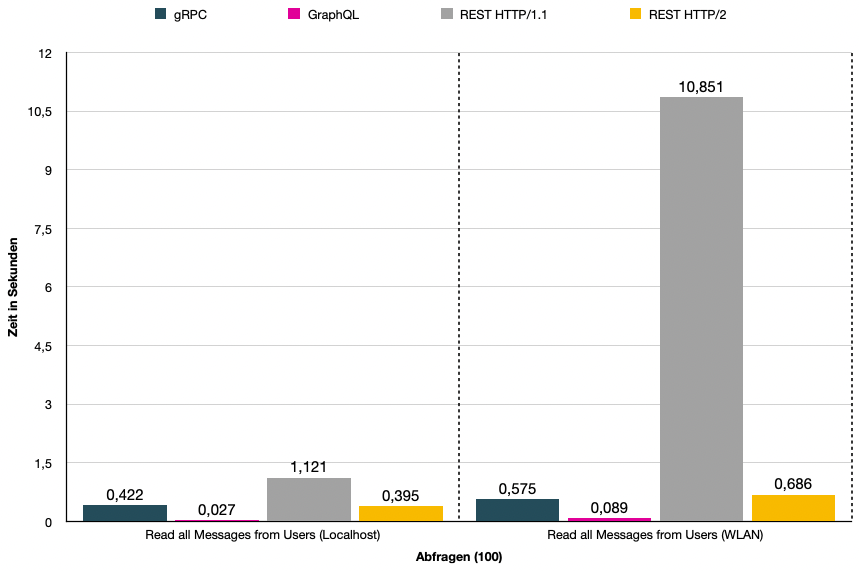
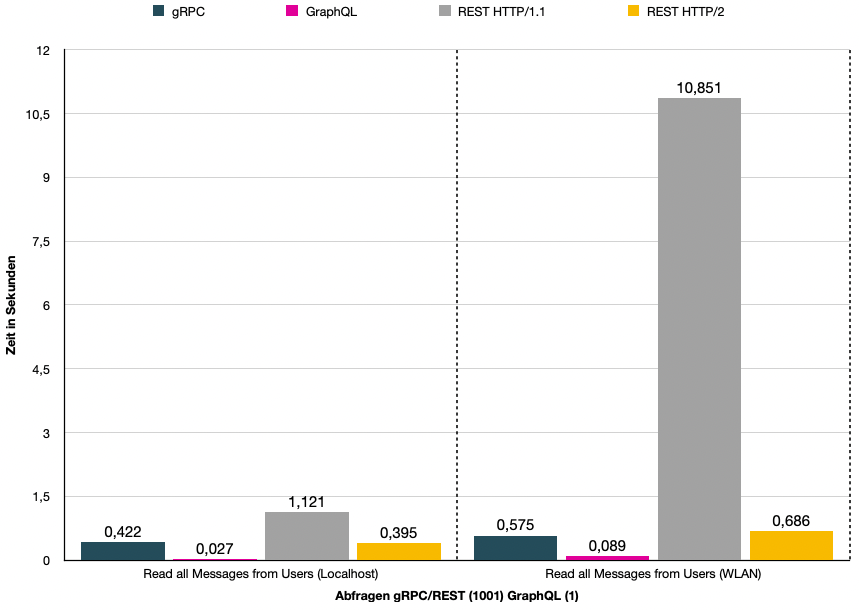
update index.md and change n1 result image

diff --git a/praktikum/ratschinski/index.md b/praktikum/ratschinski/index.md
@@ -462,6 +462,98 @@ Mit dem OpenAPI-Generator <a href="#/praktikum/ratschinski/index?id=ref_14">(Ope
 | **Min., Max., Regex.**                          |             ❌             | ❌ <br> Über Custom Types  |               ✅               |
 | **Codegenerierung**                             |             ✅             |             ✅             |               ✅               |
 
+# Versionierbarkeit
+
+Durch die unterschiedlichen Konzepte der Schnittstellenbeschreibungen bieten auch alle Technologien verschiedene Konzepte der Versionierung der Schnittstelle.
+
+## gRPC
+
+Die Versionierung in gRPC erfolgt über Änderungen in der Schnittstellenbeschreibung.
+
+```protobuf
+Version 1
+
+message User {
+int64 id = 1;
+string first_name = 2;
+string last_name = 3;
+string email = 4;
+}
+```
+
+```protobuf
+Version 2
+
+message User {
+  int64 id = 1;
+  string first_name = 2;
+  string last_name = 3;
+  string password = 5;
+}
+```
+
+Es lassen sich einfach neue Felder hinzufügen. In dem oben gezeigten Beispiel wird das Feld "email" entfernt und das Feld "password" hinzugefügt. Solange folgende Regeln eingehalten werden, bleiben die Versionen untereinander kompatibel:
+
+- Die Feldnummern dürfen niemals geändert werden.
+  - Im Beispiel muss das Feld "id" immer die Feldnummer 1 behalten.
+- Feldnummern dürfen gelöscht, aber später nicht wieder verwendet werden.
+  - Im Beispiel wird das Feld "email" gelöscht, d. h. die Feldnummer 4 darf später nicht wieder verwendet werden.
+- Namen dürfen geändert werden, da intern nur die Feldnummern verwendet werden.
+- Die Typen dürfen vertauscht werden, so lange kein **Overflow** entsteht.
+
+Werden diese Regeln befolgt, entsteht eine gute Kompatibilität zwischen den verschiedenen Schnittstellenversionen. Nachrichten lassen sich so sehr einfach von Version 1 auf Version 2 mappen. Dies wird vom protobuf Framework automatisch gemacht.
+
+## GraphQL
+
+Eine Versionierung in GraphQL ist nicht vorgesehen. Man könnte zwar den kompletten Endpunkt mit einer Versionsnummer versehen und so unterschiedliche Versionen der API unterstützen. Doch GraphQL empfiehlt durch die Möglichkeit zur effektiven API-Weiterentwicklung einen Versionslosen Ansatz <a href="#/praktikum/ratschinski/index?id=ref_16">(GraphQL Versioning, 2022)</a>.  
+In GraphQL lassen sich einfach neue Felder hinzufügen, ohne dass das zu einem Bruch der API führt. Ein Client wird so niemals ein neues Feld sehen, wenn er nicht explizit seine Query angepasst hat. Das Hinzufügen neuer Felder wird also bei GraphQL in keinem Fall die Funktionalität eines Clients beeinflussen.
+
+Felder sollten, bevor sie gelöscht werden, zuerst als _deprecated_ gekennzeichnet werden. Anschließend kann die Benutzung dieser Felder überwacht werden und erst wenn kein Client diese Felder mehr benutzt, können diese sicher entfernt werden. _Deprecated_-Felder werden in der Dokumentation von GraphQL nicht mehr angezeigt und stehen damit neuen Clients nicht mehr zur Verfügung.
+
+Die erste Version der GraphQL-API sollte dementsprechend nur die Felder zur Verfügung stellen, die von den Clients auch wirklich benötigt werden und sich anschließend Schritt für Schritt mit den neuen Anforderungen weiterentwickeln.
+
+## REST
+
+Bei REST kann die Versionierung mit unterschiedlichen Methoden gelöst werden. Die verschiedenen Methoden können einzeln angewandt werden oder sich dabei ergänzen <a href="#/praktikum/ratschinski/index?id=ref_4">(Tilkov et al., 2015, S. 187 - 189)</a>.
+
+#### Zusätzliche Ressourcen
+
+Bei neuen Anforderungen können zusätzliche Ressourcen angelegt werden, welche danach vom Client angesprochen werden können. Dies entspricht dem GraphQL-Ansatz, dass die API nicht versioniert wird und bei neuen Anforderungen immer neue Ressourcen zur Verfügung gestellt werden. Der Ansatz klingt trivial, bietet aber in sehr vielen Fällen eine einfache und sehr gut funktionierende Lösung.
+
+#### Erweiterbare Datenformate
+
+Viele Datenformate, wie XML oder JSON, lassen sich einfach erweitern. Durch die Erweiterung können leicht neue Informationen zum Client geliefert werden. Der Nachteil an der Methode ist, dass das Datenformat im Vorfeld festgelegt werden muss und bei manchen Clients ein Over-fetching entsteht, dadurch dass nicht alle angeforderten Daten benötigt werden.
+
+#### Versionsabhängige Repräsentation
+
+Die nächste Methode basiert auf einem HTTP-spezifischen Ansatz. Durch die Möglichkeit, sowohl im Request- als auch bei Response-Nachrichten im Content-Type-Header einen Medientyp zu deklarieren, kann ein und dieselbe Ressource mehr als eine Version eines Formats unterstützen.
+
+```
+Version 1:
+Accept: application/vnd.example.v1+json
+
+Version 2:
+Accept: application/vnd.example.v2+json
+```
+
+#### URI Versionierung
+
+Die URI Versionierung ist der einfachste Ansatz, hier wird bei jeder neuen Version eine neue URI generiert, über welche die API angesprochen werden kann. Diese Information muss nach Änderung der API an den Client weitergereicht werden, der anschließend auf die neue URI darauf zugreifen kann.
+
+```
+Version 1:
+http://api.example.com/v1
+
+Version 2:
+http://api.example.com/v2
+```
+
+## Zusammenfassung Versionierbarkeit
+
+|                   |                      gRPC                      |            GraphQL            |            REST            |
+| ----------------- | :--------------------------------------------: | :---------------------------: | :------------------------: |
+| **Versionierung** | Über Änderungen der Schnittstellenbeschreibung | Möglich aber nicht vorgesehen | Vielzahl von Möglichkeiten |
+
 # Performanz
 
 Ein weiteres wichtiges Kriterium, bei der Wahl der richtigen Technologie kann die Performanz bei der Datenübertragung sein.
@@ -502,7 +594,7 @@ Für die Kommunikation zwischen Client und Server verwenden alle drei Technologi
 
 Der Unterschied zwischen HTTP/1.1 und HTTP/2 liegt in der Verarbeitung der Daten. HTTP/1.1 sendet und lädt die Daten nacheinander. Im Gegensatz dazu kann HTTP/2, mehrere Datenströme gleichzeitig senden, was zu einer Verbesserung der Performanz führen kann.
 
-## Szenario
+## Szenarien
 
 Im ersten Szenario werden verschiedene Operation auf denselben Rechner (Localhost) jeweils 100 Mal hintereinander ausgeführt und die Laufzeit bis zum Ende der letzten Funktion ermittelt.
 
@@ -511,7 +603,7 @@ Abbildung 11 - Szenario Localhost
 
 ---
 
-Im zweiten Szenario werden dieselben Funktionen getestet, aber diesmal wird der Server auf einem anderen Rechner im Netzwerk angesprochen, um ein etwas realistischeres Szenario zu simulieren.
+Im zweiten Szenario werden dieselben Anfragen getestet, aber diesmal wird der Server auf einem anderen Rechner im Netzwerk angesprochen, um ein etwas realistischeres Szenario zu simulieren.
 
 ![Szenario WLAN](./assets/Aufbau_WLAN.png)  
 Abbildung 12 - Szenario WLAN
@@ -532,65 +624,32 @@ Abbildung 14 - Ergebnisse WLAN
 
 ### n+1 Problem
 
-TODO Anfrage und n+1 Problem beschreiben
+Beim n+1 Problem, benötigen bestimmte Abfragen eine hohe Anzahl von Requests. Möchte man zum Beispiel alle Messages, den die verschiedenen User zugeordnet sind ermitteln, müsste man als zuerst alle User beziehen und anschließend die einzelnen Messages der User abfragen. Das wären bei 1000 Usern genau 1001 Abfragen. Hierbei kommt es zum sogenannten Under-Fetching (Abbildung 15), beim Under-fetching liefert die Schnittstelle zu wenige Informationen, sodass erneute Aufrufe nötig sind. Das führt durch die hohe Anzahl an Aufrufen zu einem Verlust der Performanz.
 
 ![REST Under-fetching](./assets/rest/rest_under_fetching.png)  
 Abbildung 15 - REST Under-fetching
+
+Eine Möglichkeit wäre bei einem Aufruf immer alle Informationen mitzuliefern, dies würde aber zum sogenannten Over-fetching (Abbildung 16) führen, beim Over-fetching entsteht eine höhere Netzwerkauslastung dadurch, dass viele Informationen mitgeliefert werden, welche der Client mitunter nicht benötigt.
 
 ![REST Over-fetching](./assets/rest/rest_over_fetching.png)  
 Abbildung 16 - REST Over-fetching
 
 **Ergebnisse n+1**
 
+Die Ergebnisse in Abbildung 17 zeigen einen Vorteil, welcher bei der Benutzung von GraphQL entsteht. Um die Messages der User zu beziehen, ist in GraphQL nur eine Abfrage nötig, welche alle geforderten Daten zurückliefert. Bei gRPC und REST hingegen, sind jeweils 1001 Abfragen nötig.
+
 ![Ergebnisse n+1](./assets/n1_result.png)  
 Abbildung 17 - Ergebnisse n+1
 
 ## Zusammenfassung Performanz
 
-TODO
-
-# Skalierung
-
-TODO
-
-# Versionierbarkeit
-
-TODO
-
-## gRPC
-
-```protobuf
-Version 1
-
-message User {
-int64 id = 1;
-string first_name = 2;
-string last_name = 3;
-string email = 4;
-}
-```
-
-```protobuf
-Version 2
-
-message User {
-  int64 id = 1;
-  string first_name = 2;
-  string last_name = 3;
-  string password = 5;
-}
-```
-
-Feldnummern ändern sich nicht. (siehe string email = 4; / string password = 5;)  
-Nachrichten lassen sich so sehr einfach von Version 1 auf Version 2 mappen. Dies wird vom Framework automatisch gemacht.
-
-Dadurch dass die Feldnummern in den proto Dateien nicht verändert werden dürfen entsteht eine gute Kompatibilität zwischen den verschiedenen Schnittstellenversionen.
-
-- Typen dürfen vertauscht werden solange kein **Overflow** entsteht
-- Namen dürfen geändert werden, da intern nur die Feldnummern benutzt werden
-- **Wichtig** Feldnummern dürfen gelöscht, aber später nicht wieder verwendet werden
+Die Ergebnisse zeigen, dass es zwischen gRPC und REST keine großen Unterschiede in der Performanz gibt, vorausgesetzt REST wird zusammen mit dem HTTP/2 Protokoll verwendet. gRPC zeigt nur einen minimalen Vorteil in der Performanz. Somit eignen sich beide Technologien sehr gut, um Daten performant auszutauschen.  
+Wird REST zusammen mit HTTP/1.1 verwendet, zeigen sich in den Ergebnissen deutlich längere Laufzeiten für die verschiedenen Abfragen.  
+GraphQL hat bei den Ergebnissen die längsten Laufzeiten. Die Stärke von GraphQL zeigt sich erst dann, wenn es um gezielte Abfragen geht. Dadurch dass die benötigten Daten in den Queries festgelegt werden, kommt es bei GraphQL zu keinem Over- oder Under-fetching. Besonders in Fällen wo ein n+1 Problem auftreten würde, zeigen sich die Vorteile von GraphQL, durch die gezielte Abfrage wird die Performanz verbessert und die Netzwerkauslastung reduziert.
 
 # Security
+
+TODO Security
 
 # "Vorläufiges" Fazit
 
@@ -660,3 +719,4 @@ Nachteile:
 13. <span id="ref_13">JSON Schema: JSON Schema is a vocabulary that allows you to annotate and validate JSON documents (2022, 08. Juni). https://json-schema.org/</span>
 14. <span id="ref_14">OpenAPI Generator: OpenAPI Generator Github Repository (2022, 08. Juni). https://github.com/OpenAPITools/openapi-generator</span>
 15. <span id="ref_15">perf_hooks: Node.js perf_hooks Modul (2022, 08. Juni). https://nodejs.org/api/perf_hooks.html</span>
+16. <span id="ref_16">GraphQL Versioning: GraphQL Best Practices (2022, 11. Juni). https://graphql.org/learn/best-practices/</span>
